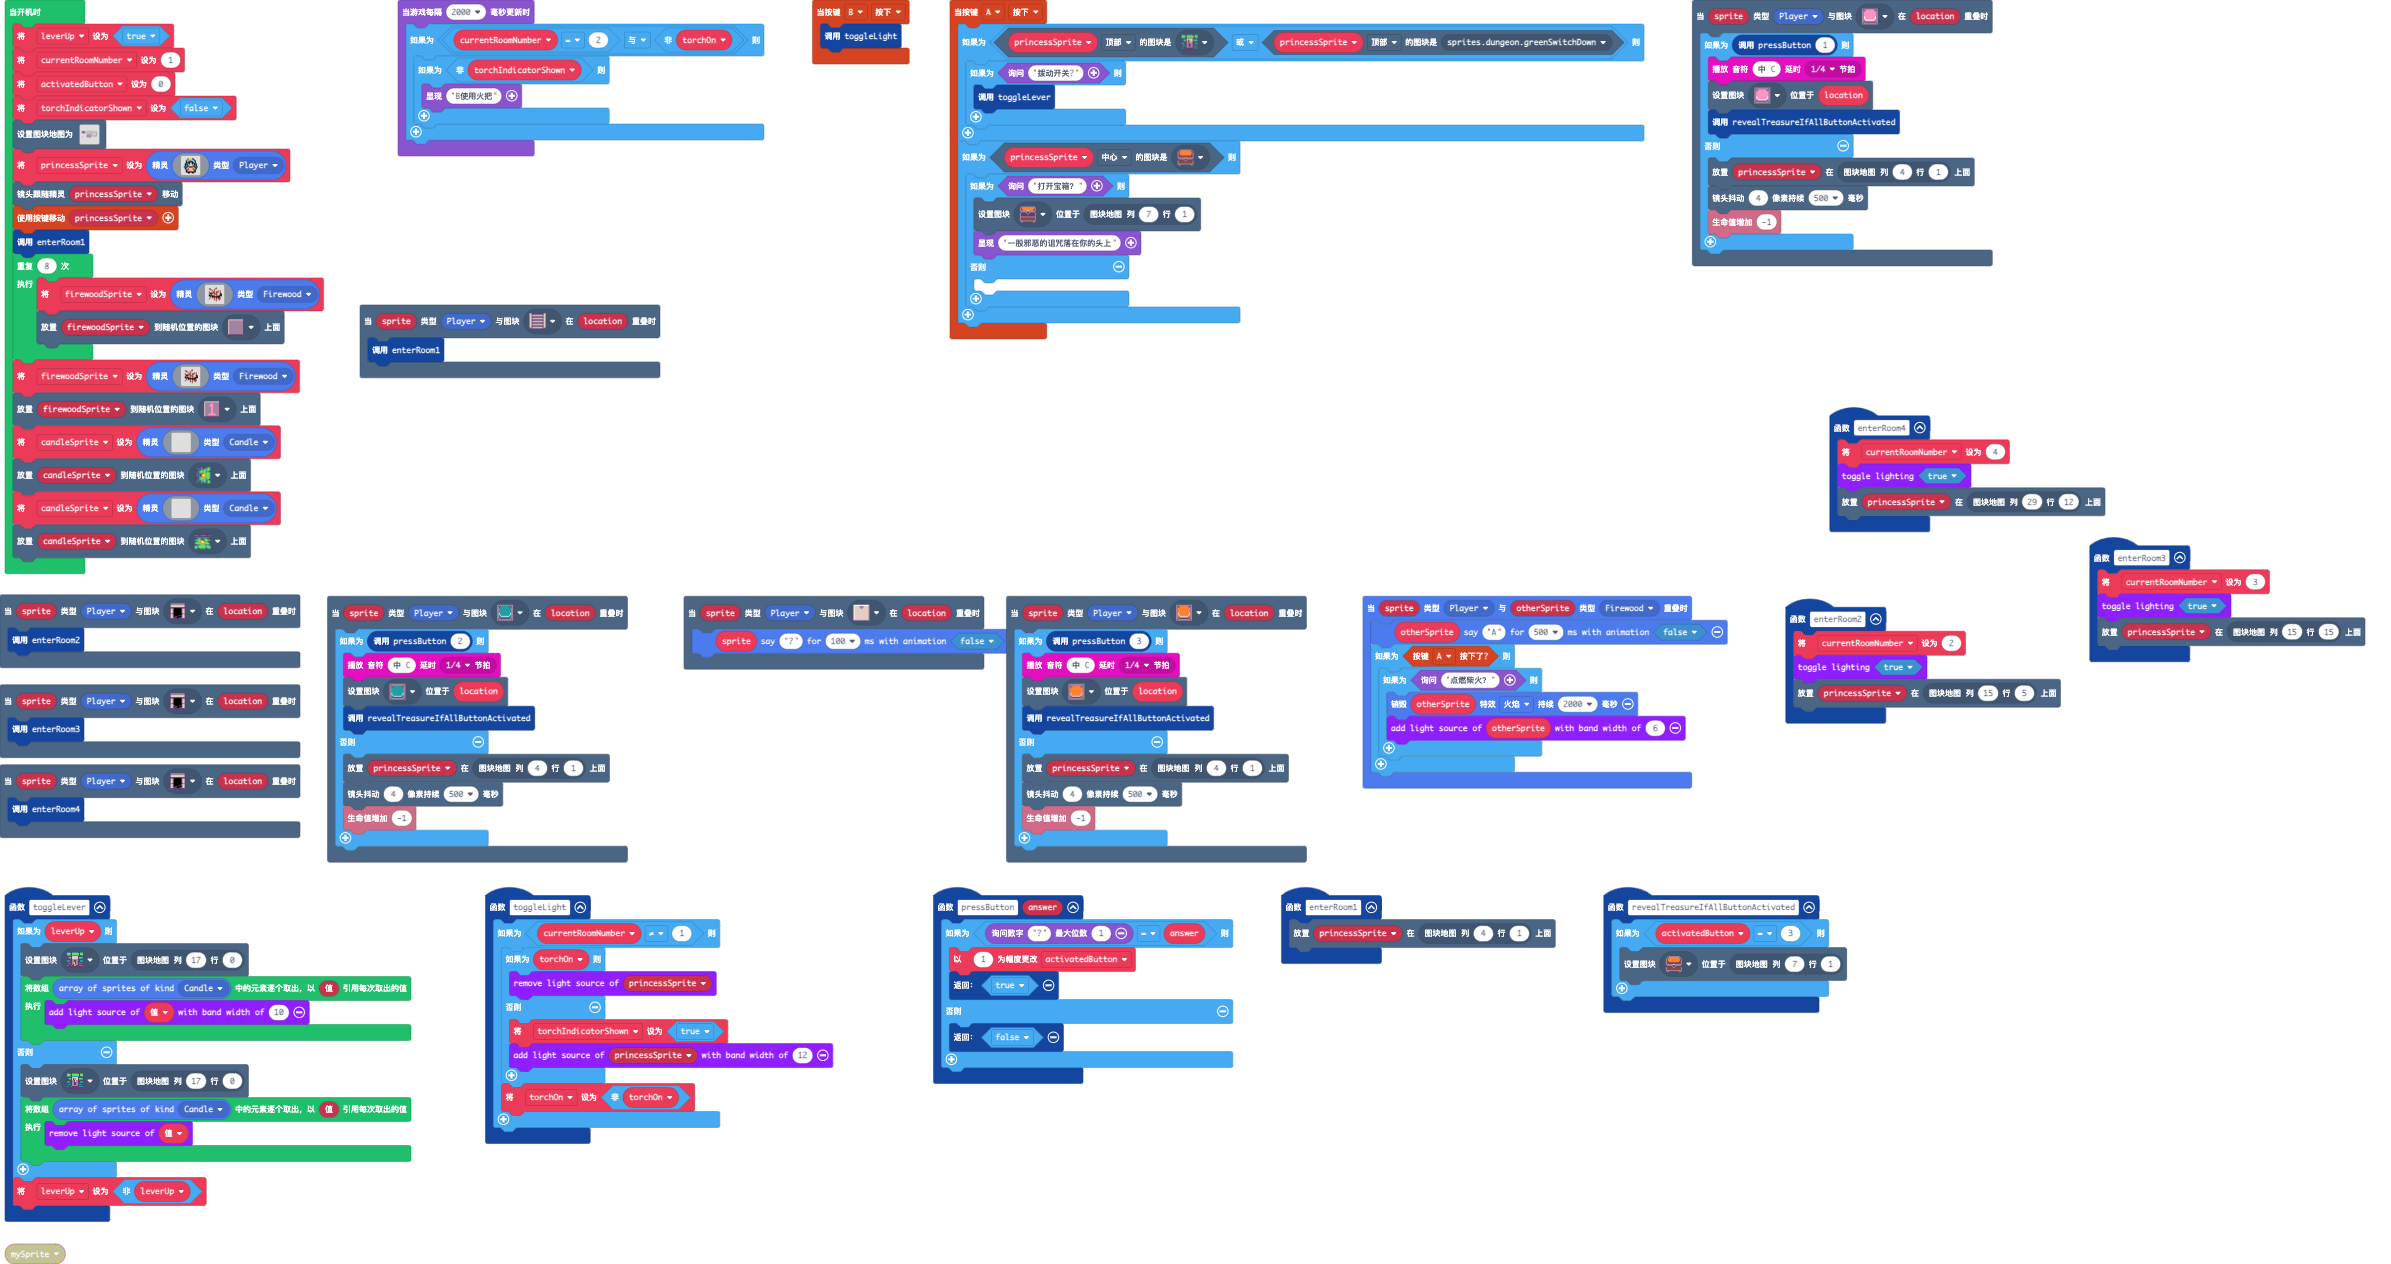
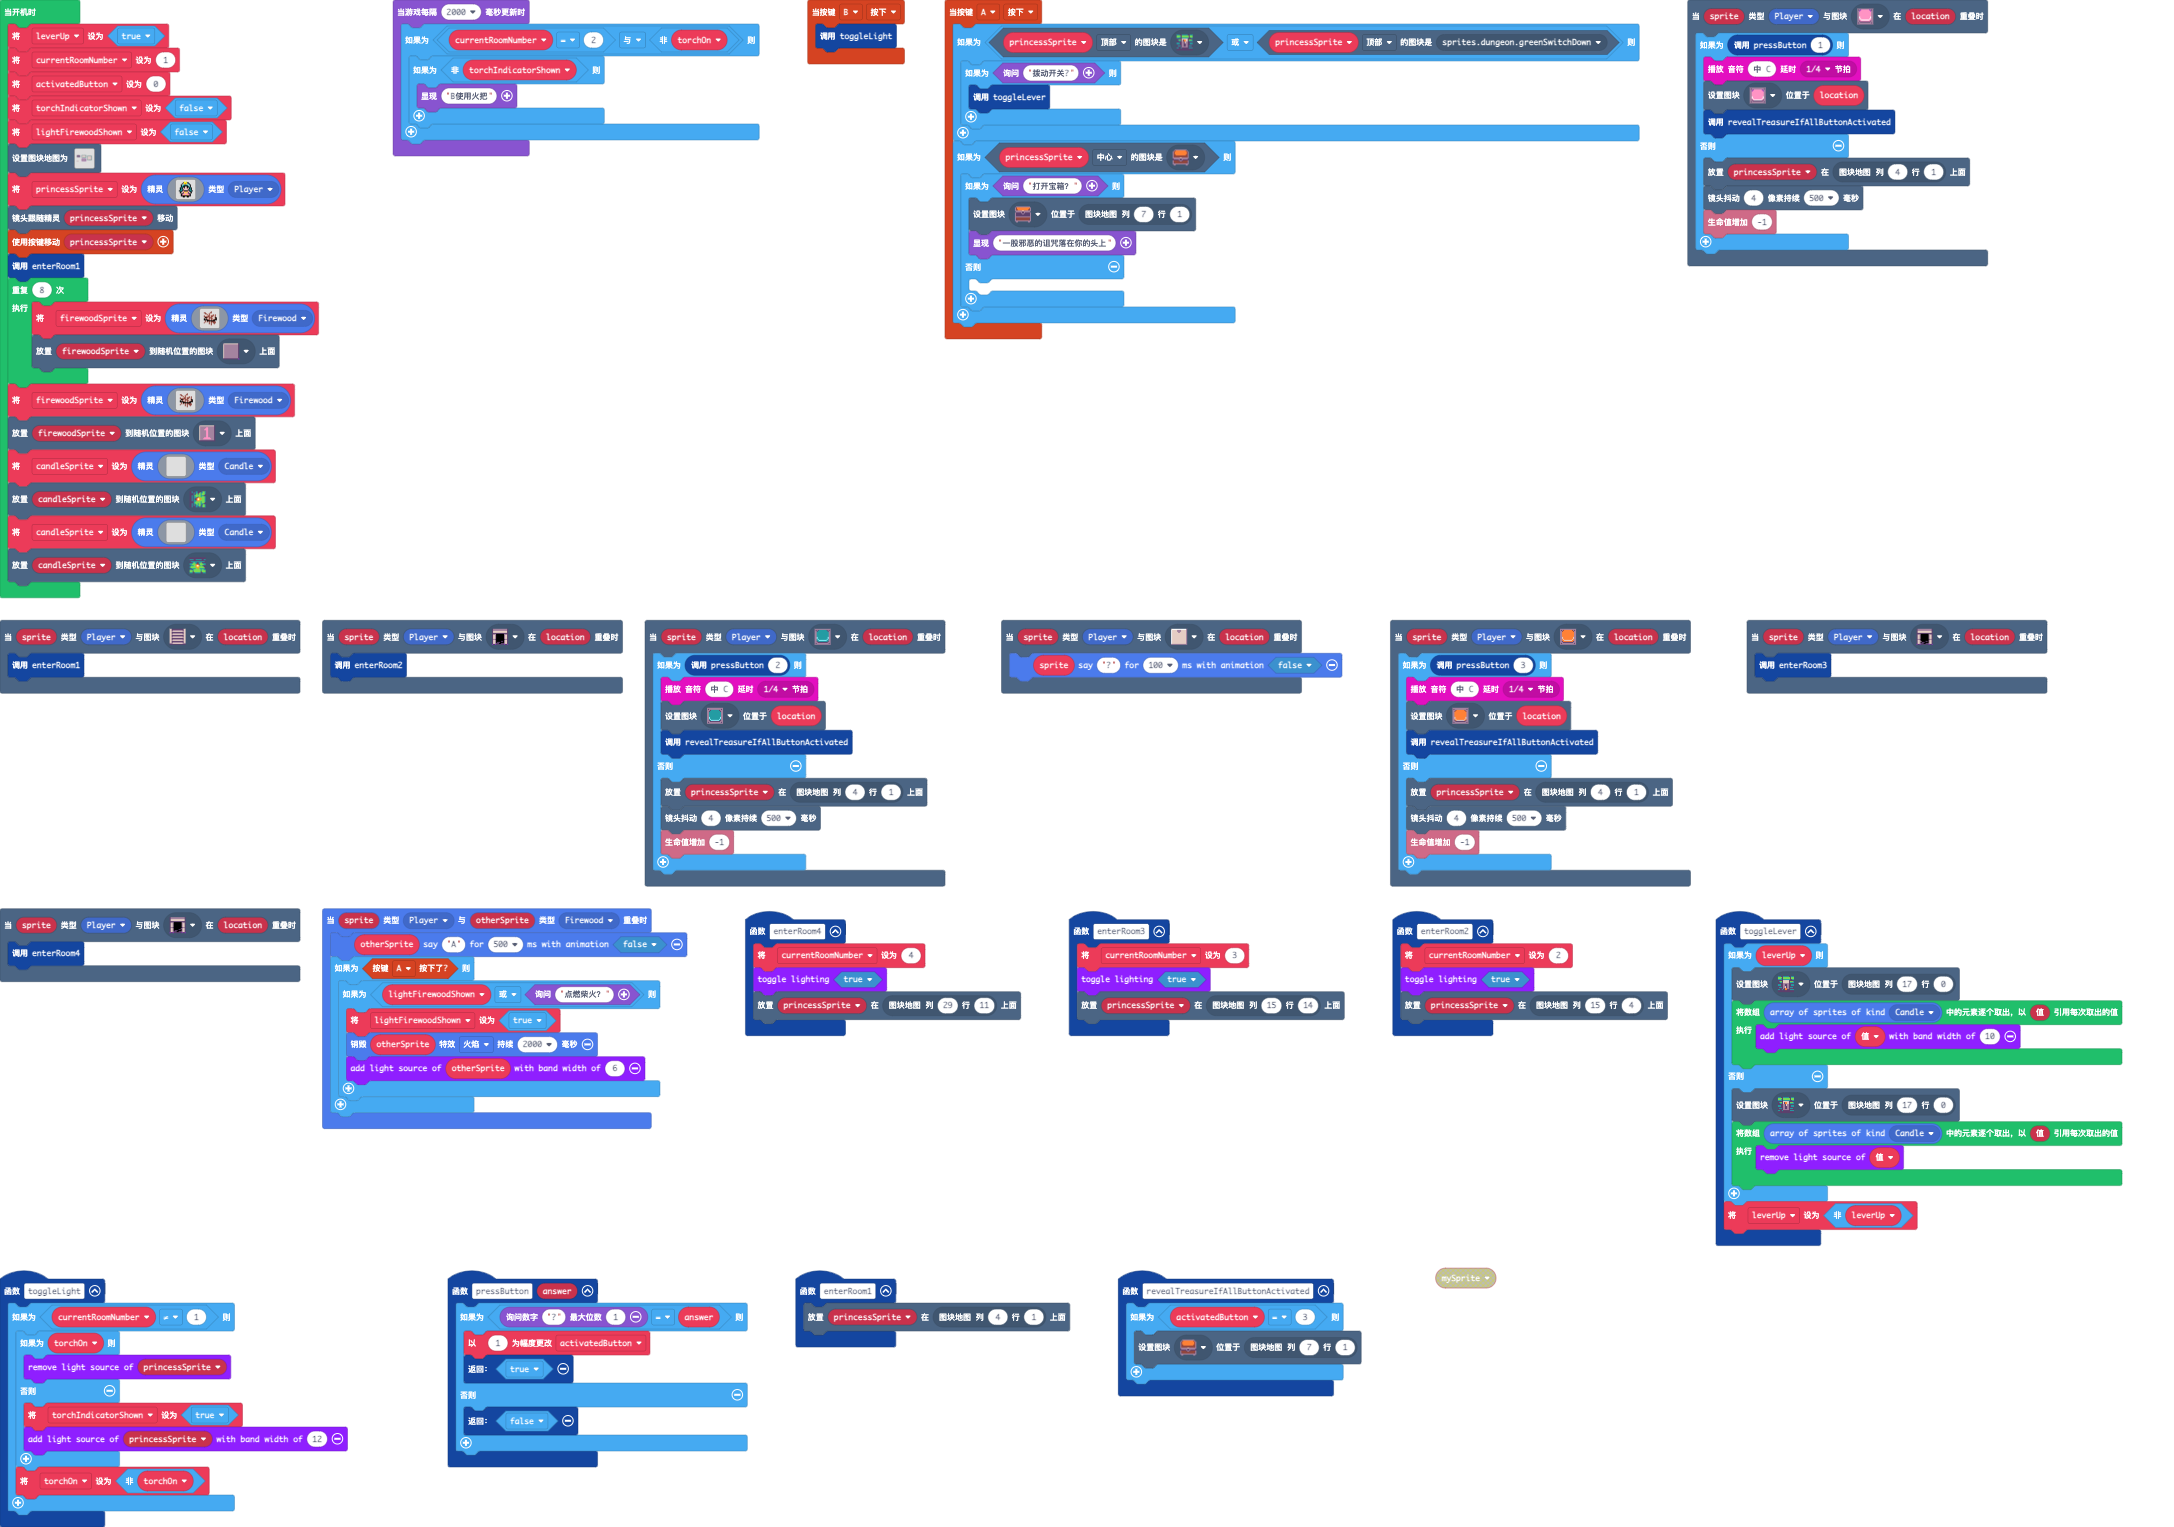
更新 main.blocks, main.ts

diff --git a/main.ts b/main.ts
@@ -16,7 +16,7 @@ scene.onOverlapTile(SpriteKind.Player, sprites.dungeon.buttonPink, function (spr
 function enterRoom2 () {
     currentRoomNumber = 2
     multilights.toggleLighting(true)
-    tiles.placeOnTile(princessSprite, tiles.getTileLocation(15, 5))
+    tiles.placeOnTile(princessSprite, tiles.getTileLocation(15, 4))
 }
 function pressButton (answer: number) {
     if (game.askForNumber("?", 1) == answer) {
@@ -57,7 +57,8 @@ function toggleLever () {
 sprites.onOverlap(SpriteKind.Player, SpriteKind.Firewood, function (sprite, otherSprite) {
     otherSprite.sayText("A", 500, false)
     if (controller.A.isPressed()) {
-        if (game.ask("点燃柴火？")) {
+        if (lightFirewoodShown || game.ask("点燃柴火？")) {
+            lightFirewoodShown = true
             otherSprite.destroy(effects.fire, 2000)
             multilights.addLightSource(otherSprite, 6)
         }
@@ -69,7 +70,7 @@ scene.onOverlapTile(SpriteKind.Player, assets.tile`myTile4`, function (sprite, l
 function enterRoom3 () {
     currentRoomNumber = 3
     multilights.toggleLighting(true)
-    tiles.placeOnTile(princessSprite, tiles.getTileLocation(15, 15))
+    tiles.placeOnTile(princessSprite, tiles.getTileLocation(15, 14))
 }
 controller.A.onEvent(ControllerButtonEvent.Pressed, function () {
     if (princessSprite.tileKindAt(TileDirection.Top, sprites.dungeon.greenSwitchUp) || princessSprite.tileKindAt(TileDirection.Top, sprites.dungeon.greenSwitchDown)) {
@@ -106,7 +107,7 @@ scene.onOverlapTile(SpriteKind.Player, assets.tile`myTile2`, function (sprite, l
 function enterRoom4 () {
     currentRoomNumber = 4
     multilights.toggleLighting(true)
-    tiles.placeOnTile(princessSprite, tiles.getTileLocation(29, 12))
+    tiles.placeOnTile(princessSprite, tiles.getTileLocation(29, 11))
 }
 scene.onOverlapTile(SpriteKind.Player, sprites.dungeon.buttonOrange, function (sprite, location) {
     if (pressButton(3)) {
@@ -136,6 +137,7 @@ scene.onOverlapTile(SpriteKind.Player, sprites.dungeon.buttonTeal, function (spr
 let torchOn = false
 let firewoodSprite: Sprite = null
 let princessSprite: Sprite = null
+let lightFirewoodShown = false
 let torchIndicatorShown = false
 let activatedButton = 0
 let currentRoomNumber = 0
@@ -144,6 +146,7 @@ leverUp = true
 currentRoomNumber = 1
 activatedButton = 0
 torchIndicatorShown = false
+lightFirewoodShown = false
 tiles.setTilemap(tilemap`级别1`)
 princessSprite = sprites.create(img`
     . . . . . . 5 . 5 . . . . . . . 
